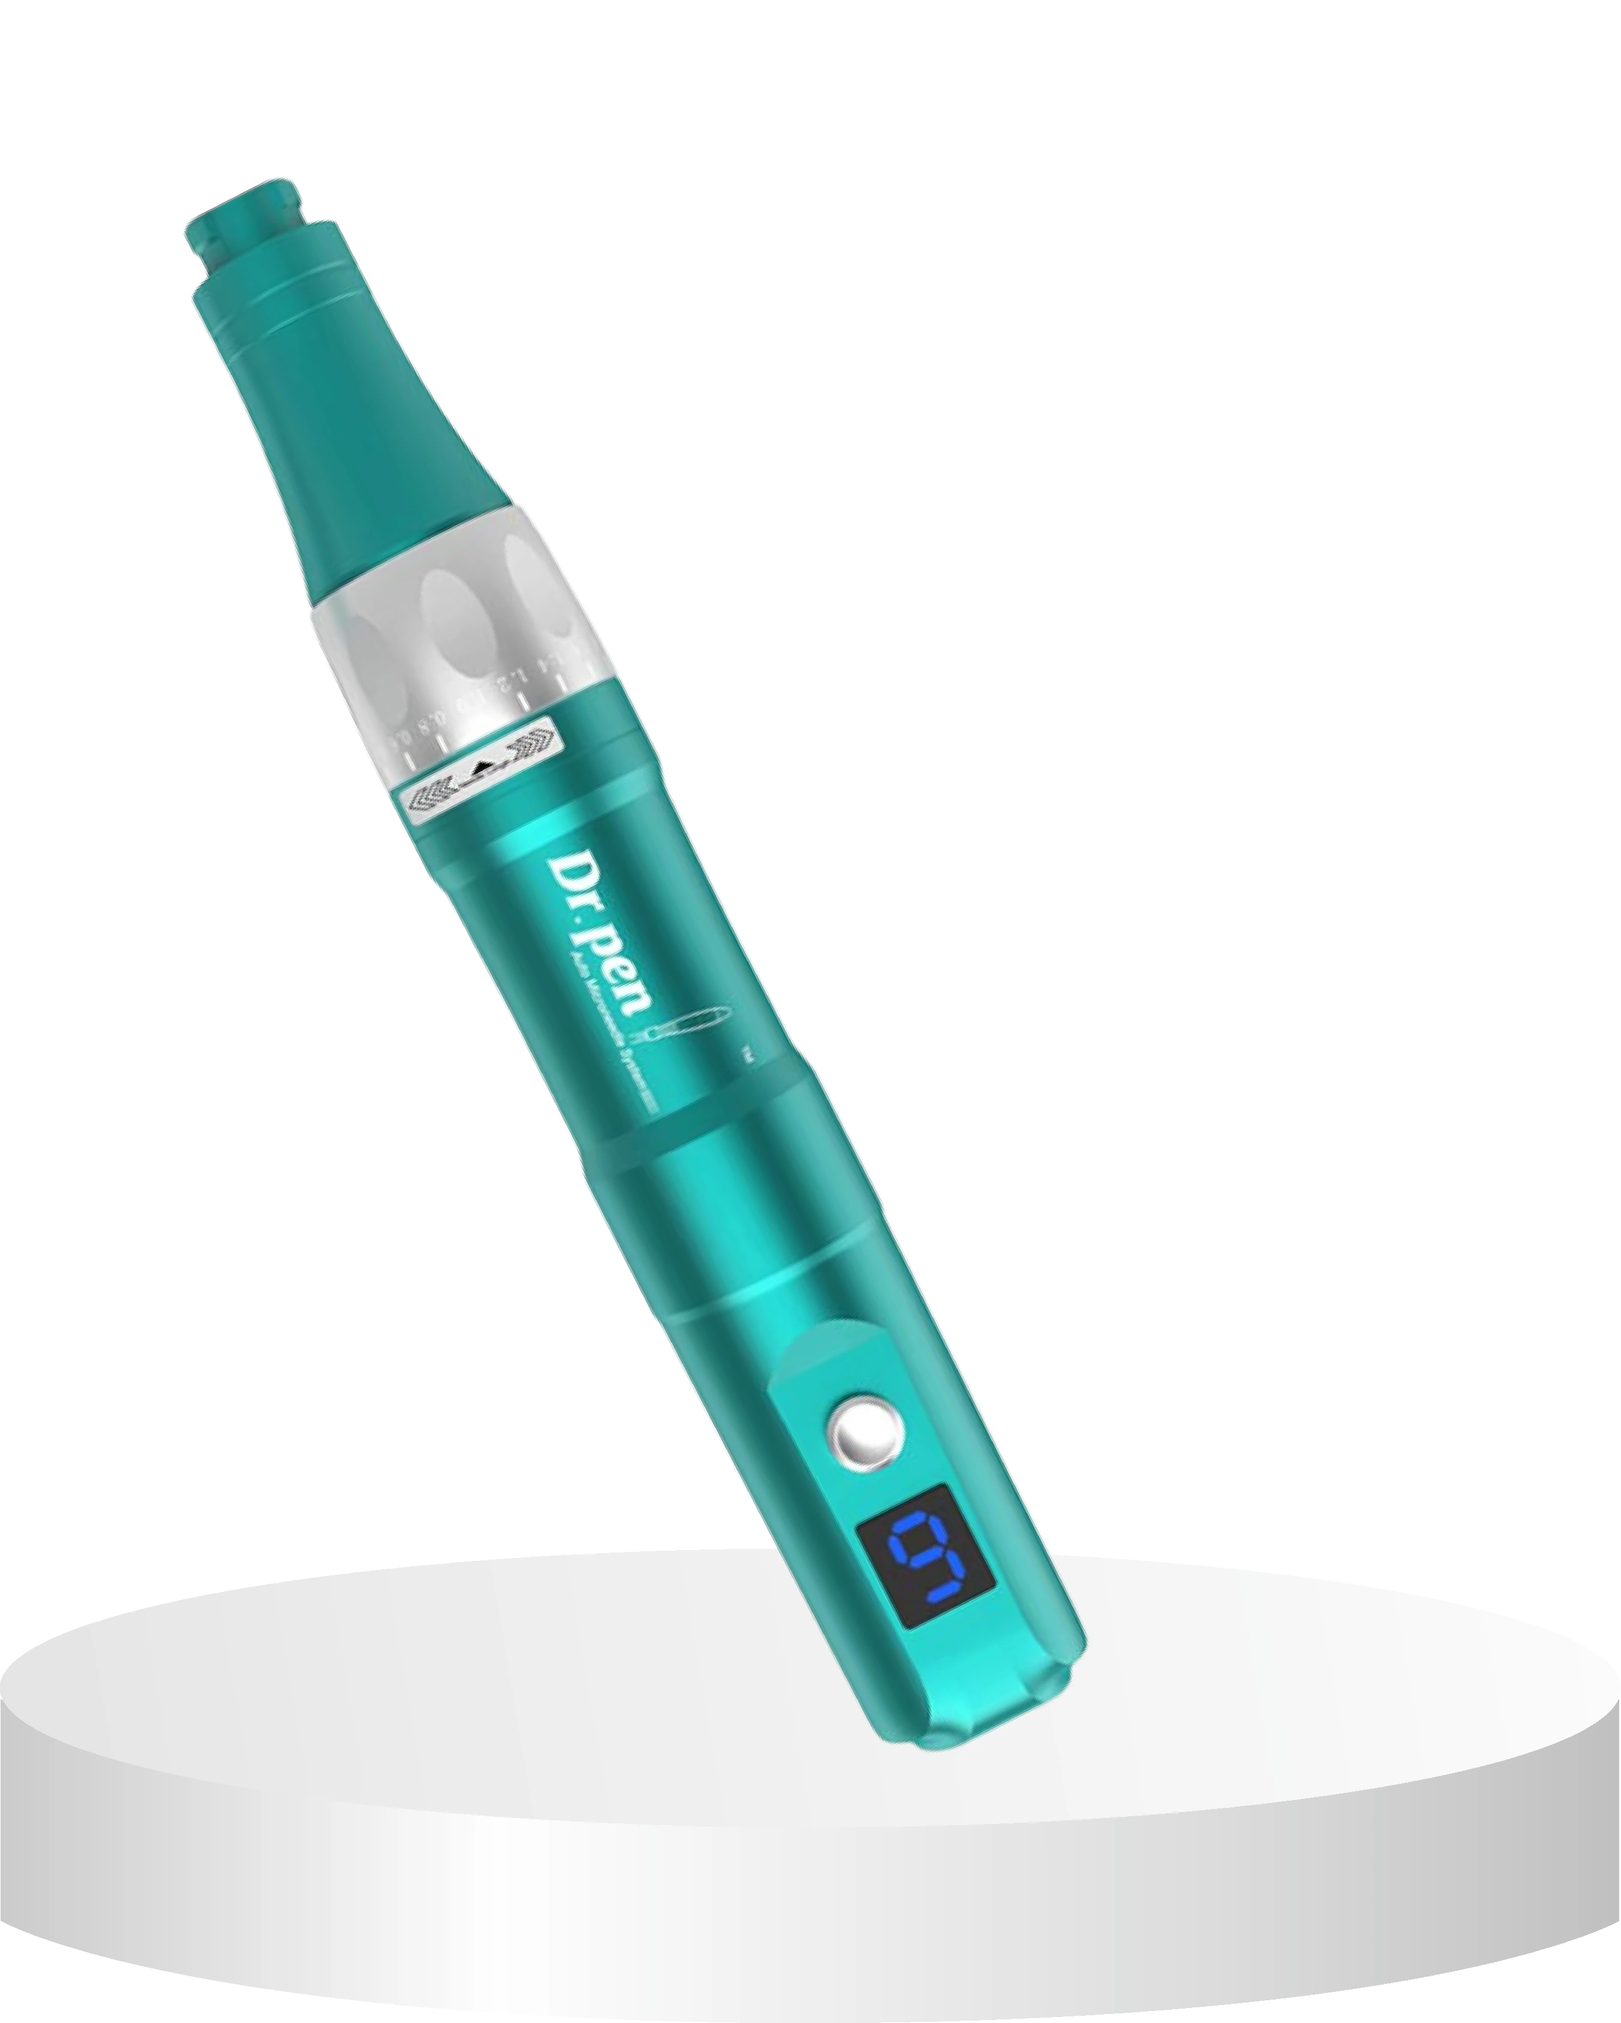
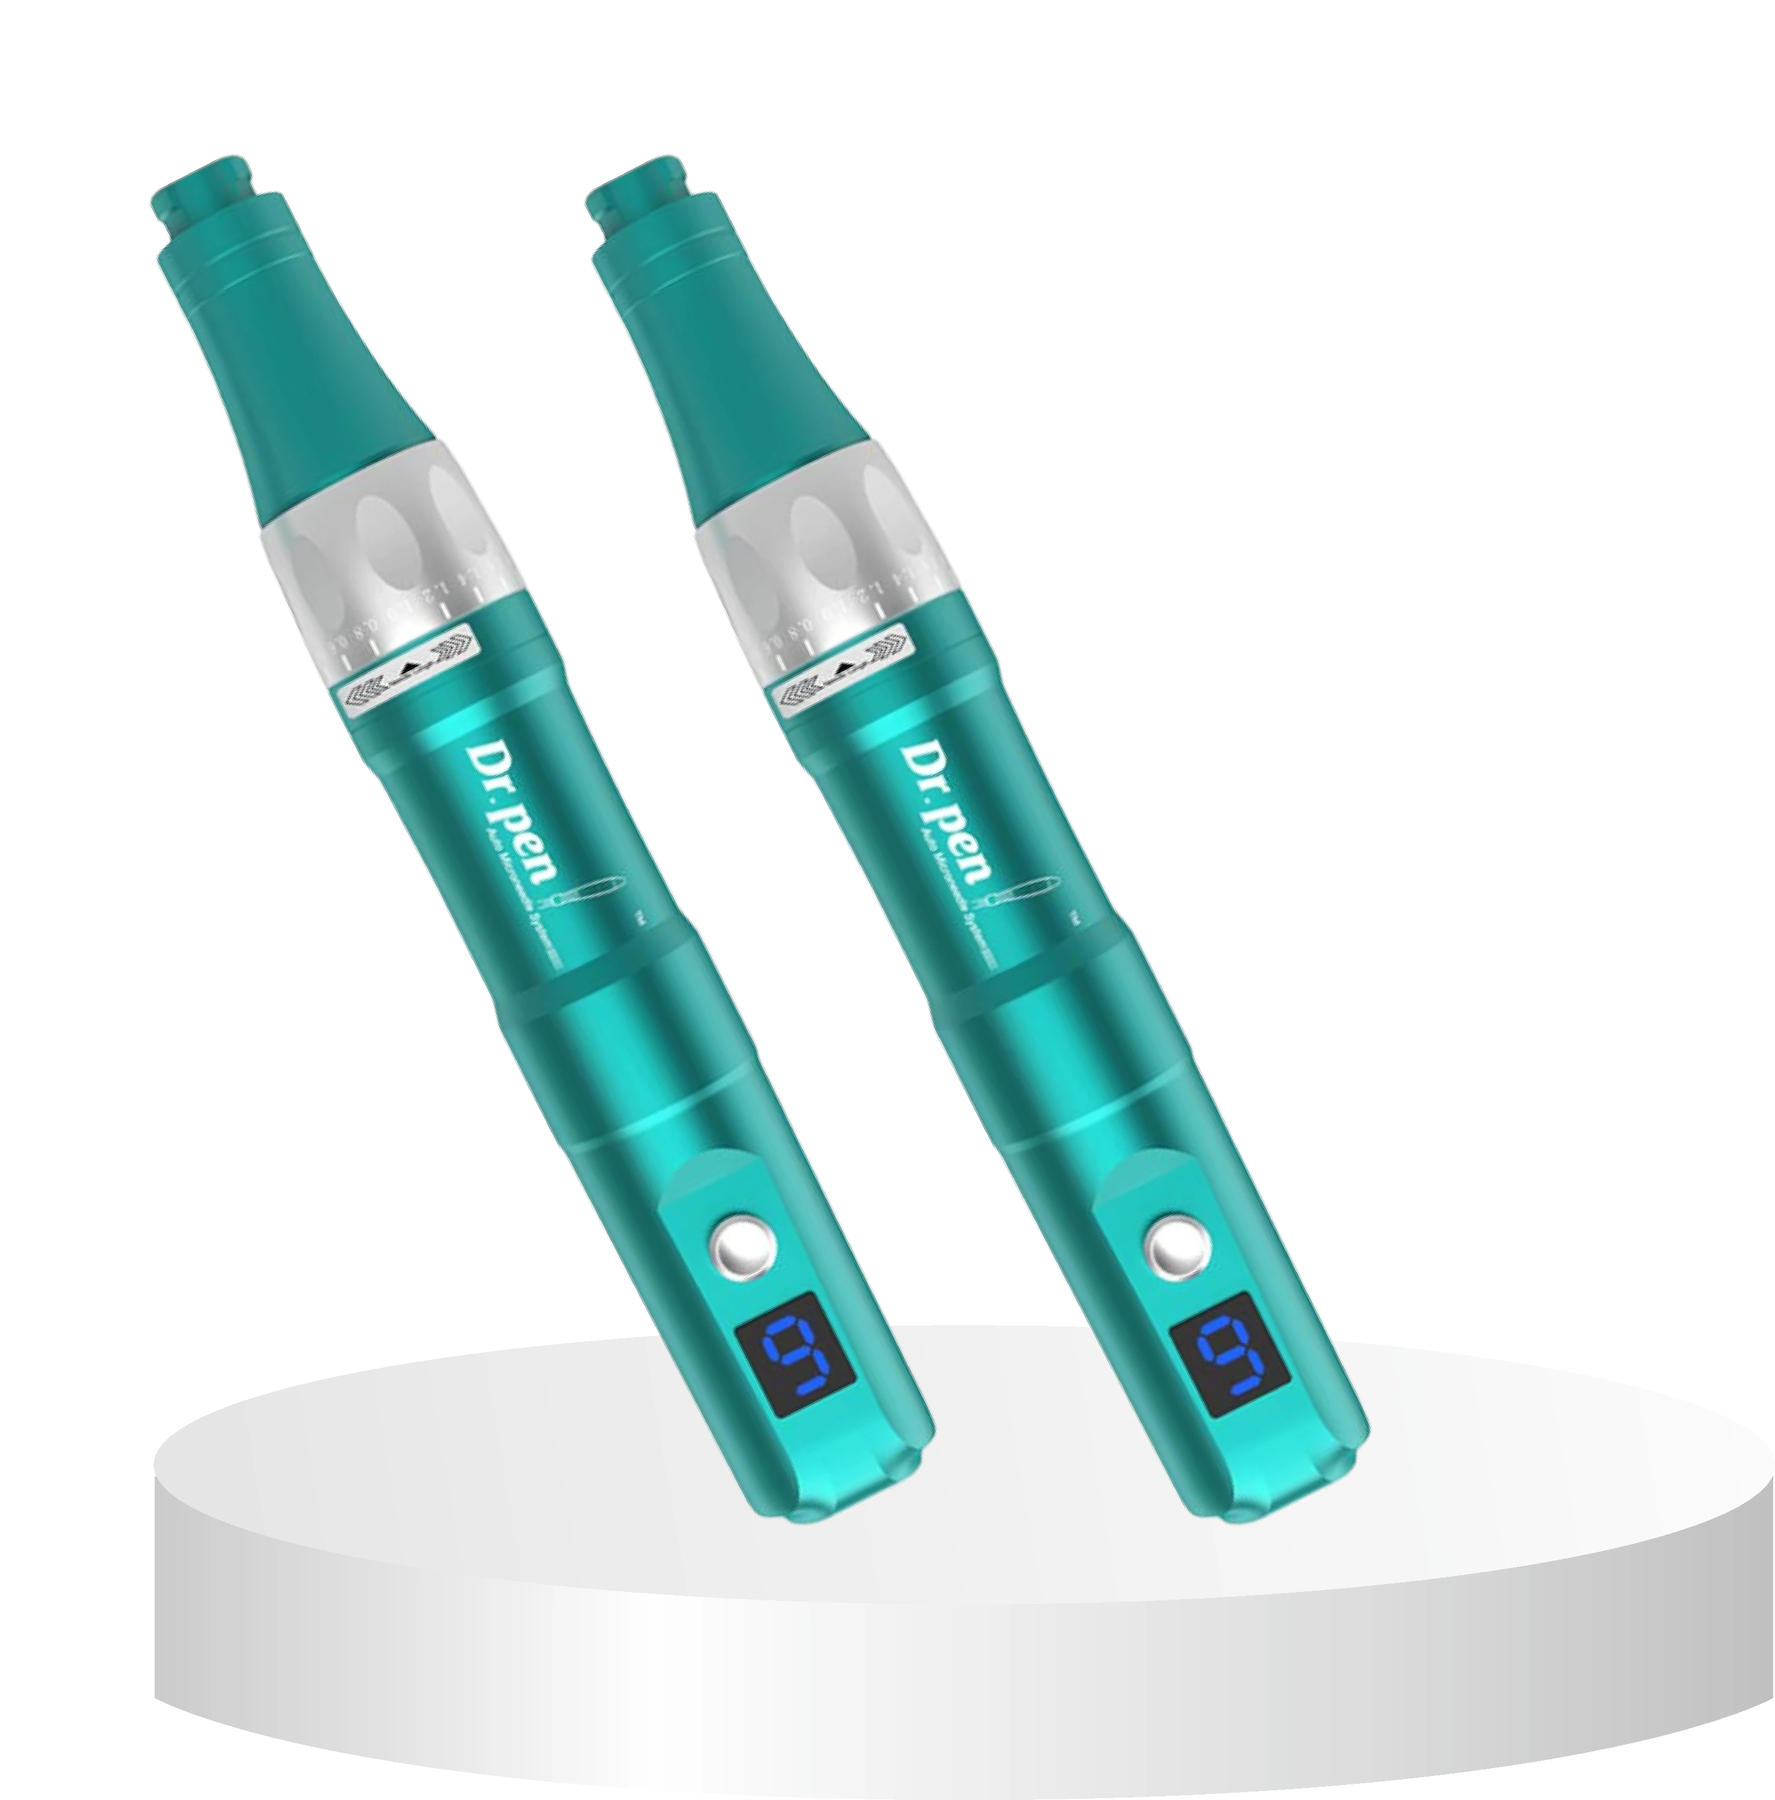
navbar fix

diff --git a/index.html b/index.html
@@ -133,9 +133,8 @@
             </div>
             <ul class="nav-links">
                 <li><a href="./index.html">HOME</a></li>
-                <li><a href="./about.html">ABOUT US</a></li>
                 <li class="dropdown">
-                    <a href="./machine-product.html">MACHINE PRODUCT</a>
+                    <a href="./machine-product.html">FLAGSHIP DEVICES</a>
                     <div class="dropdown-menu">
 
                         <!-- Sidebar -->
@@ -157,7 +156,7 @@
                                 <p>Lorem ipsum dolor sit amet consectetur.</p>
                             </div>
                             <div class="sidebar-card" data-target="content-5">
-                                <h3>CO2 fractional laser</h3>
+                                <h3>DR PEN SERIES</h3>
                                 <p>Lorem ipsum dolor sit amet consectetur.</p>
                             </div>
                         </div>
@@ -344,28 +343,31 @@
                             <div class="dropdown-content one-content swiper" id="content-5">
                                 <div class="swiper-wrapper">
                                     <div class="swiper-slide">
-                                        <a href="./machine/co2-fractional/ematrix_co2.html" class="content-card">
-                                            <img src="./assets/image/product/ematrix-co2/ematrix.webp" alt="machine">
-                                            <h3 class="title">Ematrix CO2 fractional laser</h3>
-                                            <p class="description">works at 10600 nm wavelength and comes with 60W
-                                                power.</p>
+                                        <a href="./machine/micro-needling-portable-devices/Dr.Pen-A11-ultima.html" class="content-card">
+                                            <img src="./assets/image/product/Dr.pen-A11/Dr.pen-A11-1.webp" alt="machine">
+                                            <h3 class="title">Dr. Pen A11 ultima</h3>
+                                            <p class="description">Dr. Pen Ultima A11 is a professional-grade microneedling device designed to rejuvenate</p>
                                         </a>
                                     </div>
                                     <div class="swiper-slide">
-                                        <a href="./machine/co2-fractional/ultraflexe_co2.html" class="content-card">
-                                            <img src="./assets/image/product/ultraflex-co2/ultraflex.webp"
-                                                alt="machine">
-                                            <h3 class="title">UltraFlexe CO2 fractional laser</h3>
-                                            <p class="description">USFDA approved laser with 60W power useful to treat.
-                                            </p>
+                                        <a href="./machine/micro-needling-portable-devices/Dr.Pen-A6S-ultima.html" class="content-card">
+                                            <img src="./assets/image/product/Dr.A6s-pen/Dr.Pen-A6S-ultima-1.webp" alt="machine">
+                                            <h3 class="title">Dr. Pen A6S ultima</h3>
+                                            <p class="description">Dr. Pen Ultima A6S is a professional-grade microneedling device designed to rejuvenate</p>
                                         </a>
                                     </div>
                                     <div class="swiper-slide">
-                                        <a href="./machine/co2-fractional/super_co2.html" class="content-card">
-                                            <img src="./assets/image/product/super-co2/super.webp" alt="machine">
-                                            <h3 class="title">Super CO2 fractional laser</h3>
-                                            <p class="description">USFDA approved laser with 60W power useful to treat.
-                                            </p>
+                                        <a href="./machine/micro-needling-portable-devices/Dr.Pen-M8.html" class="content-card">
+                                            <img src="./assets/image/product/Dr.M8-pen/Dr-pen-M8-1.webp" alt="machine">
+                                            <h3 class="title">Dr. Pen M8</h3>
+                                            <p class="description">Dr. Pen M8 is a professional-grade microneedling device designed to rejuvenate</p>
+                                        </a>
+                                    </div>
+                                    <div class="swiper-slide">
+                                        <a href="./machine/micro-needling-portable-devices/Dr.Pen-A6-ultima.html" class="content-card">
+                                            <img src="./assets/image/product/Dr.pen-A6/Dr.pen-A6-1.webp" alt="machine">
+                                            <h3 class="title">Dr. Pen A6 ultima</h3>
+                                            <p class="description">Dr. Pen A6 uses advanced vertical oscillation technology to create controlled micro-channels</p>
                                         </a>
                                     </div>
                                 </div>
@@ -379,7 +381,7 @@
                     </div>
                 </li>
                 <li class="dropdown">
-                    <a href="./skincare-product.html">SKINCARE PRODUCT</a>
+                    <a href="./skincare-product.html">CLINICAL CONSUMABLES</a>
                     <div class="dropdown-menu single-swiper-menu">
                         <div class="dropdown-right">
                             <div class="dropdown-content swiper active" id="machine-product-slider">
@@ -429,12 +431,24 @@
                         </div>
                     </div>
                 </li>
-                <li><a href="#">TREATMENTS</a></li>
-                <li><a href="#">MEDIA & EVENTS</a></li>
+                <li><a href="#">CLINICAL FURNITURE</a></li>
+                <li><a href="#">PROFESSIONAL RANGE</a></li>
             </ul>
-            <a href="./contact.html" class="contact-btn">CONTACT US</a>
-            <span class="menu-toggle" id="menu-toggle"><i class="fas fa-bars"></i></span>
+            <ul class="nav-links company-links">
+                <li class="company-dropdown">
+                    <a href="javascript:void(0)" class="company-toggle">
+                        COMPANY
+                        <span class="dropdown-icon"><i class="fas fa-chevron-down"></i></span>
+                    </a>
 
+                    <div class="dropdown-menu company-menu">
+                        <a href="./about.html">About Us</a>
+                        <a href="#">Media & Events</a>
+                        <a href="./contact.html">Contact Us</a>
+                    </div>
+                </li>
+            </ul>
+            <span class="menu-toggle" id="menu-toggle"><i class="fas fa-bars"></i></span>
         </nav>
 
         <div id="mobile-menu" class="mobile-menu">
@@ -873,7 +887,7 @@
             <!-- Header -->
             <div class="header">
                 <h2>Beyond Devices: Your 360° Clinical Architecture</h1>
-                <div class="header-line"></div>
+                    <div class="header-line"></div>
             </div>
 
             <!-- Tabs -->
@@ -927,19 +941,19 @@
     <!-- Product Section -->
     <section class="product-section">
         <!-- <div class="container"> -->
-            <h2 class="section-title">OUR PRODUCT</h2>
-            <nav class="tabs" role="tablist">
-                <div class="tab-indicator"></div>
-                <button class="tab active" role="tab" aria-selected="true">Machine Product</button>
-                <button class="tab" role="tab" aria-selected="false">Product</button>
-            </nav>
+        <h2 class="section-title">OUR PRODUCT</h2>
+        <nav class="tabs" role="tablist">
+            <div class="tab-indicator"></div>
+            <button class="tab active" role="tab" aria-selected="true">Machine Product</button>
+            <button class="tab" role="tab" aria-selected="false">Product</button>
+        </nav>
 
 
-            <div class="swiper product-swiper">
-                <div class="swiper-wrapper">
-                    <!-- Slides will be injected by JS -->
-                </div>
+        <div class="swiper product-swiper">
+            <div class="swiper-wrapper">
+                <!-- Slides will be injected by JS -->
             </div>
+        </div>
         <!-- </div> -->
     </section>
 

diff --git a/assets/js/navbar.js b/assets/js/navbar.js
@@ -18,60 +18,60 @@ menuToggle.addEventListener('click', () => {
 // Mobile dropdown functionality
 document.addEventListener('DOMContentLoaded', () => {
     const mobileDropdowns = document.querySelectorAll('.mobile-dropdown');
-    
+
     mobileDropdowns.forEach(dropdown => {
         const dropdownLink = dropdown.querySelector('a');
         const dropdownContent = dropdown.querySelector('.mobile-dropdown-content');
-        
+
         dropdownLink.addEventListener('click', (e) => {
             // Only prevent default if clicking on the arrow area or if we want to toggle
-            const clickedOnArrow = e.target.classList.contains('dropdown-arrow') || 
-                                 e.target.closest('.dropdown-arrow');
-            
+            const clickedOnArrow = e.target.classList.contains('dropdown-arrow') ||
+                e.target.closest('.dropdown-arrow');
+
             if (clickedOnArrow || dropdown.classList.contains('active')) {
                 e.preventDefault();
-                
+
                 // Close other dropdowns
                 mobileDropdowns.forEach(otherDropdown => {
                     if (otherDropdown !== dropdown) {
                         otherDropdown.classList.remove('active');
                     }
                 });
-                
+
                 // Toggle current dropdown
                 dropdown.classList.toggle('active');
             }
             // If dropdown is not active and not clicking on arrow, allow normal navigation
         });
     });
-    
+
     // Nested category dropdown functionality
     const mobileCategories = document.querySelectorAll('.mobile-category');
-    
+
     mobileCategories.forEach(category => {
         const categoryTitle = category.querySelector('.mobile-category-title');
-        
+
         if (categoryTitle) {
             categoryTitle.addEventListener('click', (e) => {
                 e.stopPropagation();
-                
+
                 // Get parent dropdown to find sibling categories
                 const parentDropdown = category.closest('.mobile-dropdown-content');
                 const siblingCategories = parentDropdown.querySelectorAll('.mobile-category');
-                
+
                 // Close other categories in the same dropdown
                 siblingCategories.forEach(otherCategory => {
                     if (otherCategory !== category) {
                         otherCategory.classList.remove('active');
                     }
                 });
-                
+
                 // Toggle current category
                 category.classList.toggle('active');
             });
         }
     });
-    
+
     // Close dropdowns when clicking outside
     document.addEventListener('click', (e) => {
         if (!e.target.closest('.mobile-dropdown')) {
@@ -109,6 +109,23 @@ document.querySelectorAll('a[href^="#"]').forEach(anchor => {
                 behavior: "smooth",
                 block: "start"
             });
+        }
+    });
+});
+
+document.addEventListener("DOMContentLoaded", () => {
+    const companyToggle = document.querySelector(".company-toggle");
+    const companyDropdown = document.querySelector(".company-dropdown");
+
+    companyToggle.addEventListener("click", (e) => {
+        e.preventDefault();
+        companyDropdown.classList.toggle("open");
+    });
+
+    // Optional: close when clicking outside
+    document.addEventListener("click", (e) => {
+        if (!companyDropdown.contains(e.target)) {
+            companyDropdown.classList.remove("open");
         }
     });
 });

diff --git a/assets/css/navbar.css b/assets/css/navbar.css
@@ -322,6 +322,67 @@ header nav#navbar .nav-links li a:hover {
     color: var(--primary);
 }
 
+/* ===============================
+   Company Dropdown (Click Only)
+================================ */
+
+header nav#navbar .company-dropdown {
+    position: relative;
+}
+
+header nav#navbar .company-menu {
+    position: absolute;
+    top: 100%;
+    right: 0;
+    background: var(--white);
+    width: 200px;
+    display: flex;
+    flex-direction: column;
+    padding: 5px 0;
+    border-radius: 0 0 10px 10px;
+    box-shadow: 0 4px 15px rgba(0, 0, 0, 0.1);
+    opacity: 0;
+    visibility: hidden;
+    overflow: hidden;
+    transform: translateY(10px);
+    transition: all 0.3s ease;
+    z-index: 9999;
+}
+
+/* Open only via click */
+header nav#navbar .company-dropdown.open .company-menu {
+    opacity: 1;
+    visibility: visible;
+    transform: translateY(0);
+}
+
+header nav#navbar .company-toggle {
+    display: flex;
+    align-items: center;
+    gap: 6px;
+    cursor: pointer;
+}
+
+/* Arrow icon */
+header nav#navbar .dropdown-icon {
+    font-size: 12px;
+    transition: transform 0.3s ease;
+}
+
+/* Rotate arrow when open */
+header nav#navbar .company-dropdown.open .dropdown-icon {
+    transform: rotate(180deg);
+}
+
+header nav#navbar .company-menu a {
+    padding: 5px 20px;
+    text-decoration: none;
+    font-size: 15px;
+    color: var(--black);
+    transition: background 0.3s ease, color 0.3s ease;
+}
+
+
 header .contact-btn {
     background-color: var(--primary);
     color: var(--white);

diff --git a/assets/js/product-listing.js b/assets/js/product-listing.js
@@ -268,7 +268,7 @@ document.addEventListener('DOMContentLoaded', function () {
             name: "Dr. Pen A6 ultima",
             category: "micro-needling-portable-devices",
             price: "mid-range",
-            image: "./assets/image/product/ultralift/ultralift.webp",
+            image: "./assets/image/product/Dr.pen-A6/Dr.pen-A6-1.webp",
             description: "Dr. Pen A6 uses advanced vertical oscillation technology to create controlled micro-channels",
             link: "./machine/micro-needling-portable-devices/Dr.Pen-A6-ultima.html"
         },

diff --git a/machine/micro-needling-portable-devices/Dr.Pen-A6-ultima.html b/machine/micro-needling-portable-devices/Dr.Pen-A6-ultima.html
@@ -616,7 +616,7 @@
     <main class="showcase-section">
         <!-- Image to animate -->
         <div class="image-container">
-            <img src="../../assets/image/product/ultraflex-co2/ultraflex-big.webp" alt="Machine" />
+            <img src="../../assets/image/product/Dr.pen-A6/Dr.pen-A6-2.webp" alt="Machine" />
             <!-- <img src="../../assets/image/product/Alicesuperbubblemax/Alice-super-bubble-max.webp" alt="Machine" /> -->
         </div>
 
